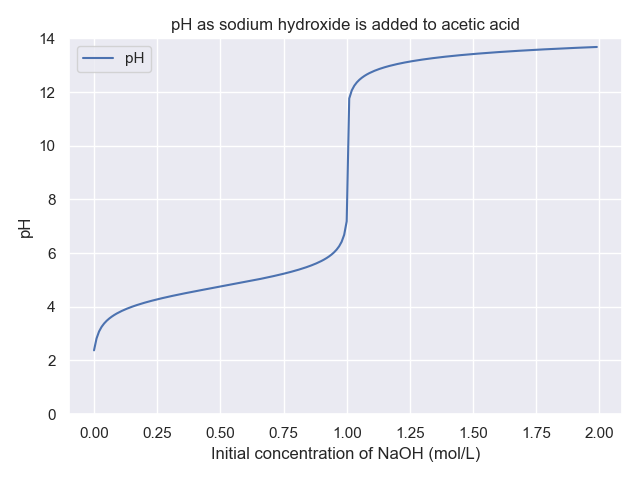
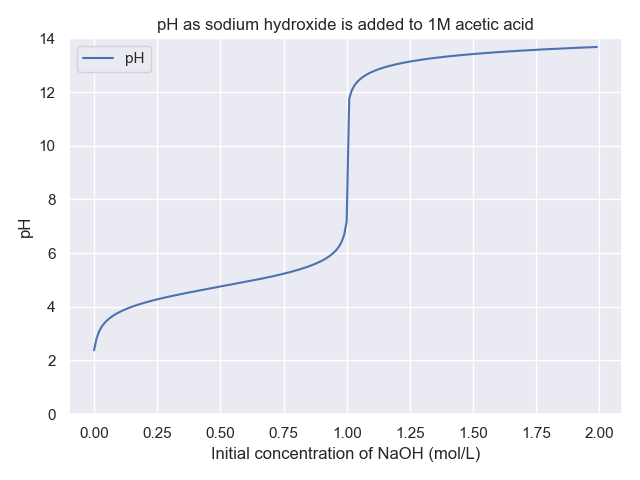
Added concentration of acetic acid in title

Changed region(s): [[0.25, 0.0312, 0.8438, 0.0625]]

diff --git a/titration_lab.py b/titration_lab.py
@@ -174,7 +174,7 @@ def main():
         # change_graph.add_data_for_each_series(c, total_changes)
 
     plt.ylim(0, 14)
-    ph_graph.graph(title="pH as sodium hydroxide is added to acetic acid")
+    ph_graph.graph(title="pH as sodium hydroxide is added to 1M acetic acid")
 
     # change_graph.graph(logarithmic_y_axis=True)
     # change_graph.graph(logarithmic_y_axis=False)
